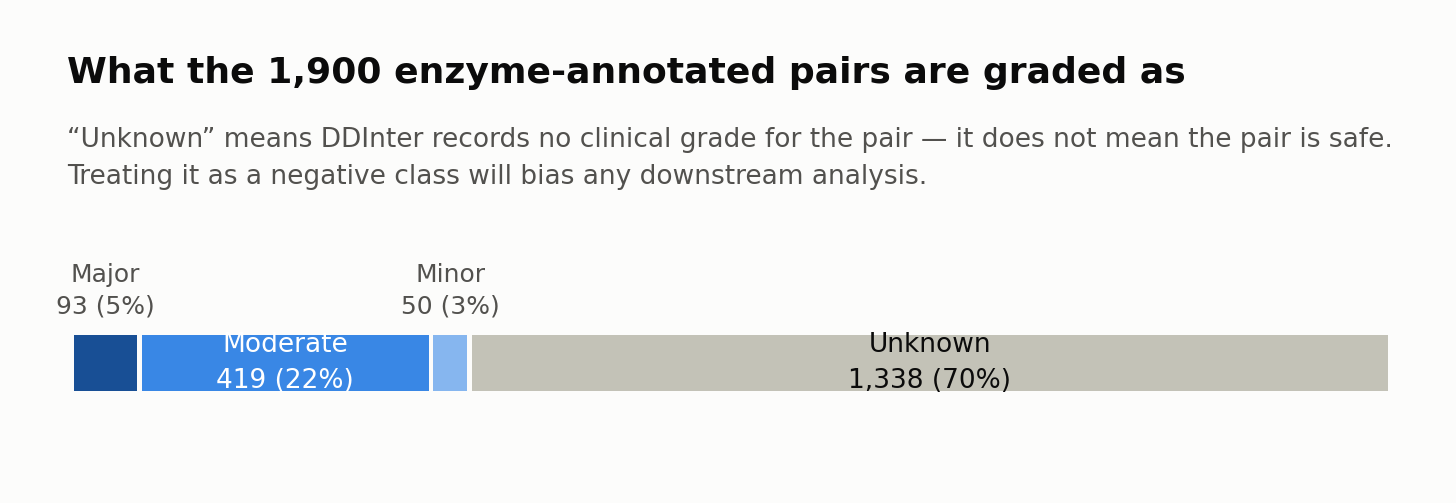
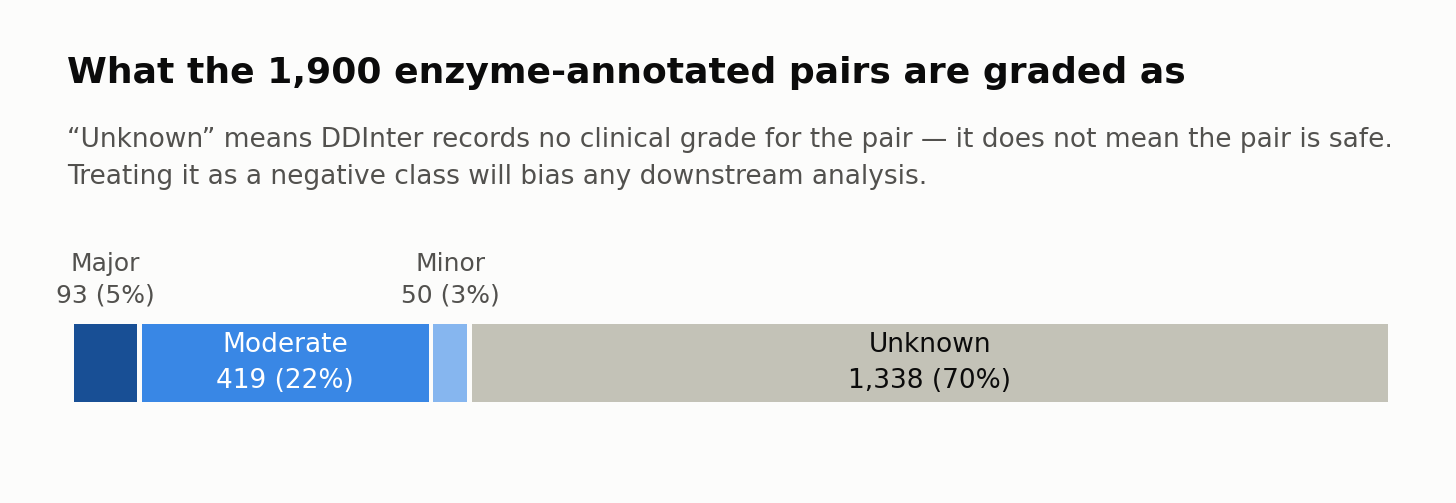
Fit severity labels within Figure 2 and refresh release checksums

Changed region(s): [[0.0309, 0.507, 0.9581, 0.6859], [0.0309, 0.7753, 0.9581, 0.8052]]

diff --git a/scripts/make_figures.py b/scripts/make_figures.py
@@ -266,7 +266,7 @@ def fig_severity_composition():
     for g in ("Major", "Moderate", "Minor", "Unknown"):
         w = counts[g]
         color = SEV_RAMP.get(g, SEV_UNKNOWN)
-        ax.barh([0], [w], left=[x], height=0.20, color=color,
+        ax.barh([0], [w], left=[x], height=0.28, color=color,
                 edgecolor="none", zorder=3)
         # label inside only where it comfortably fits, else above the segment
         pct = 100 * w / total
@@ -276,7 +276,7 @@ def fig_severity_composition():
                     color="#ffffff" if g in ("Major", "Moderate") else INK,
                     zorder=4, linespacing=1.5)
         else:
-            ax.annotate(label, xy=(x + w / 2, 0.10), xytext=(0, 6),
+            ax.annotate(label, xy=(x + w / 2, 0.14), xytext=(0, 6),
                         textcoords="offset points", ha="center", va="bottom",
                         fontsize=9, color=INK_2, linespacing=1.4)
         x += w + gap
